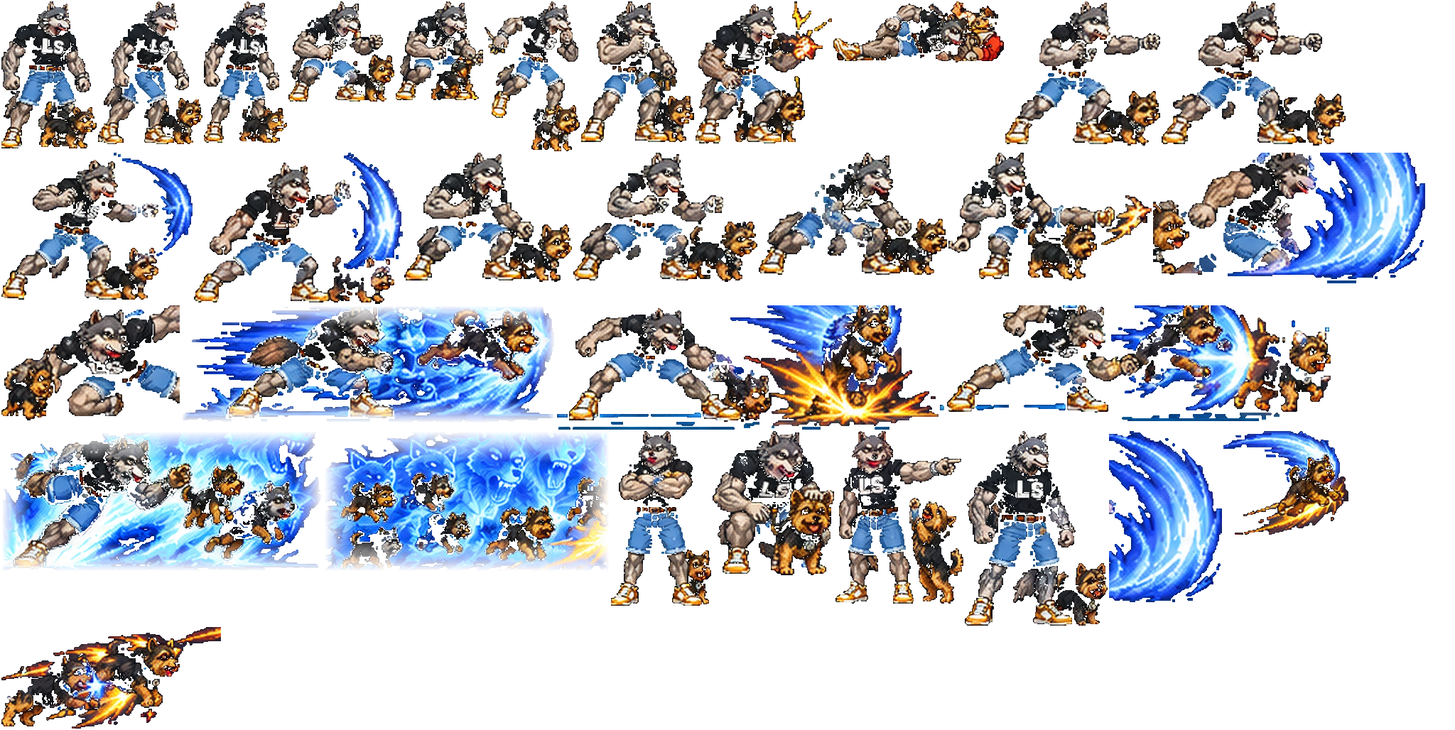
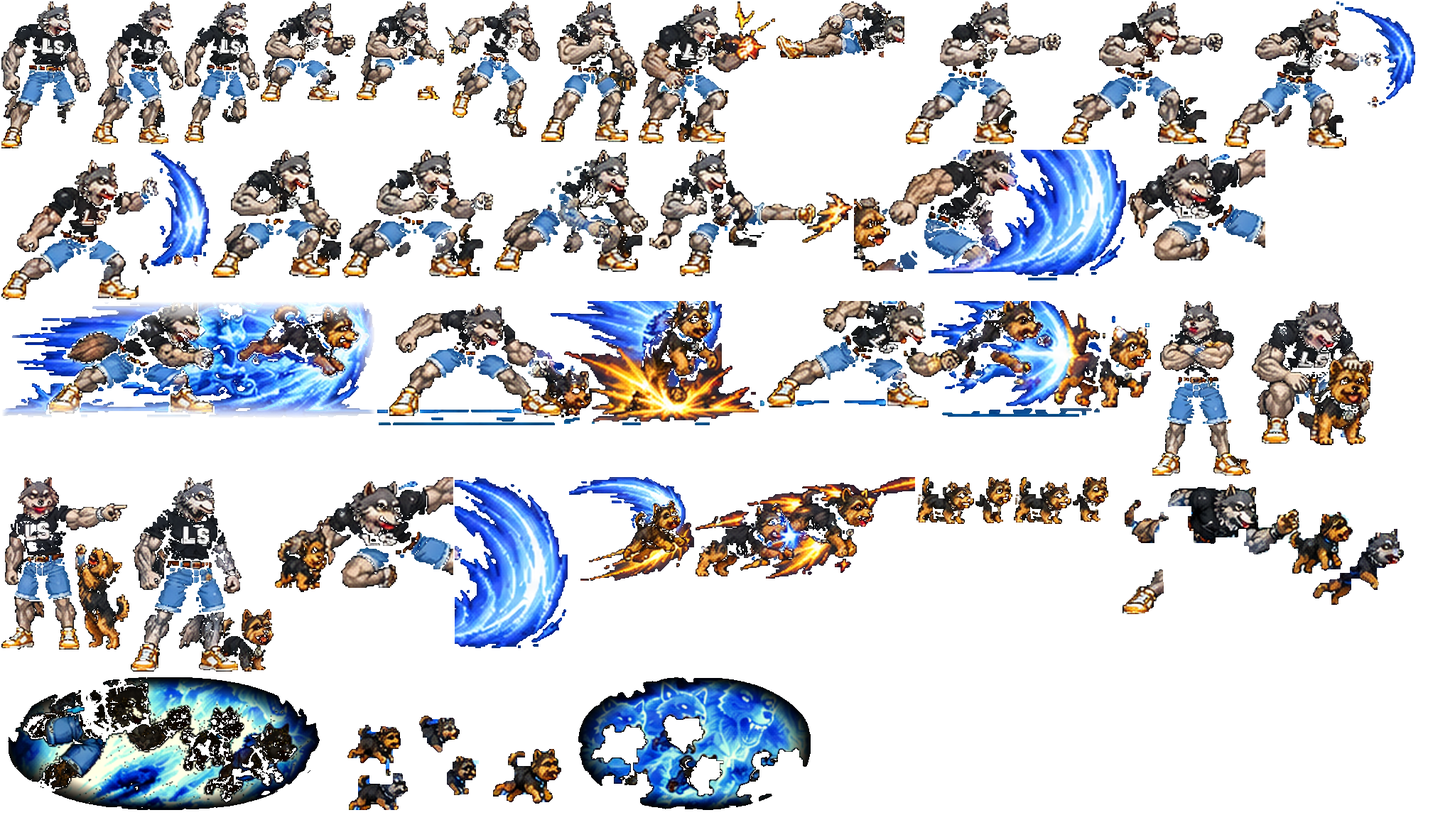
Barba vs Fumaça v0.4: Lobo com Yorkshire separado, animação com entre-quadros, supers sem caixa, multi-toque + botão SUPER, P2 camisa vermelha

diff --git a/js/fighters.js b/js/fighters.js
@@ -50,14 +50,14 @@ const CHARS = {
       jp: mv({ anim: 'jab', air: 1, frames: [{ f: 0, d: 3, anim: 'jump' }, { f: 0, d: 30, a: 1, v: { oy: -14 } }], hit: { x0: 20, x1: 90, y0: -170, y1: -110, dmg: 55, stun: 16, bstun: 10, push: 4, lvl: 'high' }, sfx: 'whoosh' }),
       jk: mv({ anim: 'lowk', air: 1, frames: [{ f: 0, d: 4, anim: 'jump' }, { f: 0, d: 30, a: 1, v: { oy: -40 } }], hit: { x0: 35, x1: 140, y0: -120, y1: -50, dmg: 65, stun: 17, bstun: 11, push: 5, lvl: 'high' }, sfx: 'whoosh' }),
       slash: mv({ anim: 'slash', special: 1, frames: [{ f: 0, d: 9, anim: 'fierce' }, { f: 0, d: 14, spawn: 'wave', sfx: 'whip' }, { f: 0, d: 10, anim: 'guard' }], hit: null }),
-      throw: mv({ anim: 'throw', special: 1, frames: [{ f: 0, d: 8, anim: 'strong' }, { f: 0, d: 20, spawn: 'dog', sfx: 'bark' }, { f: 0, d: 6, anim: 'guard' }], hit: null }),
+      throw: mv({ anim: 'throw', special: 1, frames: [{ f: 0, d: 8, anim: 'throwhold' }, { f: 0, d: 20, spawn: 'dog', sfx: 'bark' }, { f: 0, d: 6, anim: 'guard' }], hit: null }),
       rush: mv({ anim: 'rush', special: 1, frames: [{ f: 0, d: 8, anim: 'crouch' }, { f: 0, d: 16, a: 1, vx: 9, sfx: 'whoosh' }, { f: 0, d: 16, anim: 'guard', vx: 0 }],
         hit: { x0: 10, x1: 150, y0: -160, y1: -40, dmg: 90, stun: 22, bstun: 14, push: 10, heavy: 1, chip: 10, knock: 1 } }),
       sweep: mv({ anim: 'sweep', special: 1, crouch: 1, frames: [{ f: 0, d: 9, anim: 'crouch' }, { f: 0, d: 12, a: 1, sfx: 'bark' }, { f: 0, d: 16, anim: 'crouch' }],
         hit: { x0: 60, x1: 270, y0: -70, y1: 0, dmg: 70, stun: 20, bstun: 12, push: 8, lvl: 'low', chip: 8, knock: 1 } }),
       double: mv({ anim: 'double', special: 1, frames: [{ f: 0, d: 10, anim: 'strong' }, { f: 0, d: 12, a: 1, sfx: 'bark' }, { f: 0, d: 20, anim: 'guard' }],
         hit: { x0: 30, x1: 230, y0: -150, y1: -30, dmg: 100, stun: 22, bstun: 14, push: 10, heavy: 1, chip: 12, knock: 1 } }),
-      super1: mv({ anim: 'super1', special: 1, frames: [{ f: 0, d: 6, anim: 'guard' }, { f: 0, d: 10, a: 1, rh: 1, vx: 7 }, { f: 0, d: 10, a: 1, rh: 1, vx: 7 }, { f: 0, d: 10, a: 1, rh: 1, vx: 7, hb: { knock: 1, dmg: 90, heavy: 1, push: 10 } }, { f: 0, d: 18, anim: 'claw', vx: 0 }],
+      super1: mv({ anim: 'fierce', special: 1, frames: [{ f: 0, d: 6, anim: 'guard' }, { f: 0, d: 10, a: 1, rh: 1, vx: 7, anim: 'fierce' }, { f: 0, d: 10, a: 1, rh: 1, vx: 7, anim: 'claw' }, { f: 0, d: 10, a: 1, rh: 1, vx: 7, anim: 'strong', hb: { knock: 1, dmg: 90, heavy: 1, push: 10 } }, { f: 0, d: 18, anim: 'claw', vx: 0 }],
         hit: { x0: 0, x1: 220, y0: -190, y1: 0, dmg: 70, stun: 26, bstun: 12, push: 3, chip: 15, nomtr: 1 } }),
       super2: mv({ anim: 'claw', special: 1, frames: [{ f: 0, d: 14, anim: 'taunt', sfx: 'howl' }, { f: 0, d: 18, spawn: 'pack' }, { f: 0, d: 16, anim: 'guard' }], hit: null }),
     },
@@ -75,7 +75,8 @@ function loadImage(src) { return new Promise((res, rej) => { const i = new Image
 async function loadSprites() {
   for (const id of ['mukira', 'jogador', 'lobo']) {
     const [img, meta] = await Promise.all([loadImage(`assets/${id}/atlas.png`), fetch(`assets/${id}/atlas.json`).then(r => r.json())]);
-    Sprites[id] = { img, meta: meta.anims, tint: makeVariant(img, id, 'tint'), white: makeVariant(img, id, 'white') };
+    const tint = id === 'lobo' ? await loadImage('assets/lobo/atlas_p2.png') : makeVariant(img, id, 'tint');
+    Sprites[id] = { img, meta: meta.anims, tint, white: makeVariant(img, id, 'white') };
   }
   Sprites.ready = true;
 }
@@ -102,7 +103,8 @@ class Fighter {
   reset(side) {
     this.x = side === 0 ? 300 : 660; this.y = FLOOR; this.vx = 0; this.vy = 0; this.facing = side === 0 ? 1 : -1;
     this.hp = this.c.hp; this.state = 'idle'; this.t = 0; this.move = null; this.mt = 0; this.hitDone = false; this.stun = 0;
-    this.crouching = false; this.cool = 0; this.flash = 0; this.dirHist = []; this.prev = {}; this.inv = 0; this.pushV = 0; this.combo = 0; this.animT = 0;
+    this.crouching = false; this.cool = 0; this.flash = 0; this.dirHist = []; this.prev = {}; this.inv = 0; this.pushV = 0; this.combo = 0; this.animT = 0; this.pt = {};
+    this.pup = this.c.lobo ? { x: this.x + this.facing * 58, face: this.facing, t: 0, away: false, ret: false, moving: false, hide: false } : null; this.trail = []; this.lastV = null; this.trans = null;
   }
   get air() { return this.y < FLOOR - 0.01 || this.state === 'air' || this.state === 'fall'; }
   dirNum(inp) { // numpad notation relative to facing
@@ -120,7 +122,9 @@ class Fighter {
   }
   curFrame() { if (!this.move) return null; let t = this.mt; for (const fr of this.move.frames) { if (t < fr.d) return fr; t -= fr.d; } return this.move.frames[this.move.frames.length - 1]; }
   update(inp, opp, G) {
-    const press = {}; for (const k of ['punch', 'kick', 'special', 'up']) press[k] = inp[k] && !this.prev[k]; this.prev = { ...inp };
+    const press = {}; for (const k of ['punch', 'kick', 'special', 'up', 'super']) press[k] = inp[k] && !this.prev[k]; this.prev = { ...inp };
+    this.tick = (this.tick || 0) + 1; for (const k of ['punch', 'kick', 'special']) if (press[k]) this.pt[k] = this.tick;
+    if (this.c.lobo) this.updPup(G);
     const d = this.dirNum(inp); this.dirHist.push(d); if (this.dirHist.length > 20) this.dirHist.shift();
     this.t++; this.animT++; if (this.cool > 0) this.cool--; if (this.flash > 0) this.flash--; if (this.inv > 0) this.inv--;
     const st = this.state;
@@ -159,7 +163,7 @@ class Fighter {
       case 'air':
         if (!this.airAtk && (press.punch || press.kick)) { this.airAtk = true; const keepVx = this.vx; this.startMove(press.punch ? 'jp' : 'jk', G); this.vx = keepVx; }
         break;
-      case 'attack': if (this.c.lobo && this.mt < 4 && !this.move.air && (press.punch || press.kick || press.special) && this.loboInput(press, d, G, true)) break; this.tickMove(opp, G); break;
+      case 'attack': if (this.c.lobo && this.mt < 6 && !this.move.air && !/^super/.test(this.moveName) && (press.punch || press.kick || press.special || press.super) && this.loboInput(press, d, G, true)) break; this.tickMove(opp, G); break;
       case 'hit': case 'block': this.stun--; if (this.stun <= 0) this.setState(this.crouching && d <= 3 ? 'crouch' : 'idle'); break;
       case 'down': if (this.t > 38) { this.setState('getup'); } break;
       case 'getup': if (this.t > 28) { this.inv = 18; this.setState('idle'); } break;
@@ -172,11 +176,16 @@ class Fighter {
   dashF() { const h = this.dirHist.slice(-16); let i = h.length - 1; if (h[i] !== 6) return false; while (i >= 0 && h[i] === 6) i--; let j = i; while (j >= 0 && h[j] !== 6 && h[j] === 5) j--; return j >= 0 && j < i && h[j] === 6 && i - j <= 10; }
   // Lobo Solitário command list (keyboard + touch friendly). cancel=true: only P+K combos/supers in the first frames of a normal.
   loboInput(press, d, G, cancel) {
-    const P = press.punch, K = press.kick, S = press.special, held = this.prev;
+    const P = press.punch, K = press.kick, S = press.special;
+    // chord = both buttons went down within 5 frames (~80 ms) of each other, in any order, on any device
+    const rec = k => press[k] || this.tick - (this.pt[k] || -99) <= 5;
+    const chord = (a, b) => (press[a] || press[b]) && rec(a) && rec(b);
+    const used = (...ks) => { for (const k of ks) this.pt[k] = -99; };
     const q = this.motion([2, 3, 6]), qb = this.motion([2, 1, 4]);
-    if (this.meter >= 200 && ((S && held.kick) || (K && held.special) || (qb && ((P && held.kick) || (K && held.punch))))) return this.doSuper(2, G);
-    if (this.meter >= 100 && ((S && held.punch) || (P && held.special) || (q && ((P && held.kick) || (K && held.punch))))) return this.doSuper(1, G);
-    if ((P && held.kick) || (K && held.punch)) { this.startMove('double', G); return true; }
+    if (press.super && this.meter >= 100) return this.doSuper(this.meter >= 200 ? 2 : 1, G);
+    if (this.meter >= 200 && (chord('special', 'kick') || (qb && chord('punch', 'kick')))) { used('special', 'kick', 'punch'); return this.doSuper(2, G); }
+    if (this.meter >= 100 && (chord('special', 'punch') || (q && chord('punch', 'kick')))) { used('special', 'punch', 'kick'); return this.doSuper(1, G); }
+    if (chord('punch', 'kick')) { used('punch', 'kick'); if (this.moveName === 'double' && this.state === 'attack') return true; this.startMove('double', G); return true; }
     if (cancel) return false;
     const ownProj = G.projectiles.some(p => p.owner === this && p.kind !== 'pack');
     let mvn = null;
@@ -188,6 +197,23 @@ class Fighter {
     if (!mvn) return false;
     if ((mvn === 'slash' || mvn === 'throw') && (this.cool > 0 || ownProj)) return S; // eat the button, nothing happens
     this.startMove(mvn, G); this.meter = Math.min(200, this.meter + 4); return true;
+  }
+  // The Yorkshire is its own sprite: follows the wolf, leaves during Dog Throw and runs back afterwards.
+  updPup(G) {
+    const p = this.pup; p.t++;
+    const away = G.projectiles.some(q => q.owner === this && q.kind === 'dog');
+    if (away) { p.away = true; p.hide = true; return; }
+    if (p.away) { p.away = false; p.ret = true; p.x = this.lastDogX != null ? this.lastDogX : p.x; }
+    const mvn = this.state === 'attack' ? this.moveName : '';
+    const winBaked = this.state === 'win' && (this.winPose || 0) % 3 !== 0;
+    p.hide = ['throw', 'rush', 'sweep', 'double', 'slash', 'super2'].includes(mvn) || winBaked;
+    if (p.hide) { p.x = this.x + this.facing * 58; p.ret = false; p.moving = false; return; }
+    const lying = ['fall', 'down', 'ko'].includes(this.state);
+    const tx = this.x + this.facing * (mvn === 'super1' ? 120 : 58);
+    const dx = tx - p.x, ad = Math.abs(dx);
+    if (lying && !p.ret) { p.moving = false; p.face = Math.sign(this.x - p.x) || p.face; return; }
+    if (ad > 2) { const sp = p.ret ? 9 : mvn === 'super1' ? 10 : Math.max(1.5, Math.min(7, ad * 0.18)); p.x += Math.sign(dx) * Math.min(ad, sp); p.moving = ad > 4; p.face = p.moving ? Math.sign(dx) : this.facing; }
+    else { p.moving = false; p.ret = false; p.face = this.facing; }
   }
   doSuper(lvl, G) { this.meter -= lvl * 100; this.startMove(lvl === 1 ? 'super1' : 'super2', G); G.superFlash = { t: 0, f: this, name: lvl === 1 ? 'LOBO E SEU AMIGO' : 'ALPHA PACK' }; G.hitstop = 26; SFX.play('howl'); return true; }
   spawnProj(kind, G) {
@@ -320,22 +346,47 @@ function jogadorVisual(f) {
     default: { const b = Math.sin(t / 22); return { anim: 'stance', idx: 0, sy: 1 + 0.012 * b, oy: 0 }; }
   }
 }
-// Lobo Solitário: every frame is a crop of the user's character sheet (tools/build_lobo.py). The Yorkshire is part of most poses.
+// Lobo Solitário: every key pose is a crop of the user's character sheet (tools/build_lobo.py). In-between motion is
+// tweened here (ease in/out offsets, squash & stretch, rotation arcs, cross-fade ghosts, afterimages) - no new art.
+const easeO = x => 1 - (1 - x) * (1 - x), clamp01 = x => Math.max(0, Math.min(1, x));
 function loboVisual(f) {
-  const s = f.state, t = f.animT;
-  if (s === 'attack' && f.move) { const fr = f.curFrame(); return { anim: fr.anim || f.move.anim, idx: 0, ...(fr.v || {}) }; }
-  switch (s) {
-    case 'walk': { const n = cyc(t, 2, 10); return { anim: 'walk', idx: n, oy: n ? -2 : 0 }; }
-    case 'crouch': case 'jumpsq': case 'land': return { anim: 'crouch', idx: 0 };
-    case 'air': return { anim: 'jump', idx: 0, oy: -6, rot: f.vy > 4 ? 0.06 : 0 };
-    case 'hit': return { anim: 'hit', idx: 0, ox: f.t < 6 ? -6 : -2, rot: f.heavyHit ? -0.08 : 0 };
-    case 'block': return f.crouching ? { anim: 'cblock', idx: 0 } : { anim: 'guard', idx: 0, ox: -3 };
-    case 'fall': return f.t < 10 ? { anim: 'hit', idx: 0, rot: -0.12 - f.t * 0.03 } : { anim: 'ko', idx: 0, oy: -6 };
-    case 'down': case 'ko': return { anim: 'ko', idx: 0 };
-    case 'getup': return f.t < 16 ? { anim: 'crouch', idx: 0 } : { anim: 'guard', idx: 0 };
-    case 'win': return { anim: ['win1', 'win2', 'taunt'][(f.winPose || 0) % 3], idx: 0 };
-    default: { const b = Math.sin(t / 22); return { anim: 'idle', idx: 0, sy: 1 + 0.01 * b }; }
+  const s = f.state, t = f.animT, st = f.t;
+  if (s === 'attack' && f.move) {
+    const m = f.move, fr = f.curFrame(), i = m.frames.indexOf(fr), p = clamp01((f.mt - f.frameStart(fr)) / fr.d);
+    const ai = m.frames.findIndex(x => x.a || x.spawn), v = { anim: fr.anim || m.anim, idx: 0, ...(fr.v || {}) };
+    if (m.air) return v;
+    if (ai < 0 || i < ai) { v.ox = (v.ox || 0) - 7 * easeO(p); v.rot = -0.035 * p; v.sy = 1 - 0.03 * p; v.sx = 1 + 0.02 * p; }       // wind-up: pull back, coil
+    else if (i === ai || fr.a) { const k = clamp01(p * 4); v.ox = (v.ox || 0) - 7 + 13 * easeO(k); v.sx = 1 + 0.05 * (1 - k); v.sy = 1 - 0.03 * (1 - k); } // snap forward
+    else { v.ox = (v.ox || 0) + 6 * (1 - easeO(p)); v.sy = 1 - 0.015 * Math.sin(p * Math.PI); }                                  // recovery settles
+    return v;
   }
+  switch (s) {
+    case 'walk': { const ph = t / 9; const n = Math.floor(ph) % 2; const dir = Math.sign(f.vx * f.facing) || 1;
+      return { anim: 'walk', idx: n, oy: -Math.abs(Math.sin(ph * Math.PI)) * 4, rot: 0.03 * dir, sy: 1 + 0.015 * Math.cos(ph * Math.PI * 2) }; }
+    case 'crouch': return { anim: 'crouch', idx: 0, sy: 1 + 0.012 * Math.sin(t / 16) };
+    case 'jumpsq': return { anim: 'crouch', idx: 0, sy: 0.9, sx: 1.06 };
+    case 'land': { const k = clamp01(st / 6); return { anim: 'crouch', idx: 0, sy: 0.86 + 0.14 * easeO(k), sx: 1.08 - 0.08 * k }; }
+    case 'air': { const up = f.vy < 0, k = clamp01(Math.abs(f.vy) / 14);
+      return { anim: 'jump', idx: 0, oy: -6, rot: Math.max(-0.14, Math.min(0.14, f.vy * 0.012)), sy: up ? 1 + 0.07 * k : 1 - 0.03 * (1 - k), sx: up ? 1 - 0.05 * k : 1 }; }
+    case 'hit': { const k = easeO(clamp01(st / 9)); return { anim: 'hit', idx: 0, ox: -12 * (1 - k) - 2, rot: (f.heavyHit ? -0.14 : -0.06) * (1 - k), sx: 1 - 0.04 * (1 - k) }; }
+    case 'block': return f.crouching ? { anim: 'cblock', idx: 0, ox: st < 6 ? -4 : -1 } : { anim: 'guard', idx: 0, ox: st < 6 ? -6 : -3, sx: st < 4 ? 0.97 : 1 };
+    case 'fall': { if (st < 16) { const r = -0.12 - easeO(st / 16) * 1.25; return { anim: 'hit', idx: 0, rot: r, lie: true }; }
+      return { anim: 'ko', idx: 0, oy: -8, rot: -0.12 }; }
+    case 'down': { const b = st < 14 ? Math.abs(Math.sin(st / 14 * Math.PI)) * 10 * (1 - st / 14) : 0; return { anim: 'ko', idx: 0, oy: -b, sy: st < 4 ? 0.9 : 1, sx: st < 4 ? 1.06 : 1 }; }
+    case 'ko': return { anim: 'ko', idx: 0, sy: 1 + 0.01 * Math.sin(t / 30) };
+    case 'getup': { if (st < 10) { const k = st / 10; return { anim: 'crouch', idx: 0, sy: 0.55 + 0.4 * easeO(k), sx: 1.1 - 0.08 * k, rot: -0.25 * (1 - k), ox: -6 }; }
+      if (st < 20) return { anim: 'crouch', idx: 0, sy: 0.95 + 0.05 * ((st - 10) / 10), ox: -3 };
+      const k = clamp01((st - 20) / 8); return { anim: 'guard', idx: 0, sy: 0.94 + 0.06 * easeO(k), ox: -3 * (1 - k) }; }
+    case 'win': return { anim: ['win1', 'win2', 'taunt'][(f.winPose || 0) % 3], idx: 0, sy: 1 + 0.012 * Math.sin(t / 20) };
+    default: { const b = Math.sin(t / 18); return { anim: 'idle', idx: 0, sy: 1 + 0.016 * b, sx: 1 - 0.006 * b, oy: 0 }; }
+  }
+}
+function drawPup(ctx, f, G) {
+  const p = f.pup; if (!p || p.hide) return;
+  const anim = p.moving ? 'pupWalk' : (f.crouching || f.state === 'crouch') ? 'pupCrouch' : 'pupIdle';
+  const idx = p.moving ? cyc(p.t, 2, 5) : 0, oy = p.moving ? -Math.abs(Math.sin(p.t / 5 * Math.PI)) * 5 : 0;
+  ctx.save(); ctx.globalAlpha = 0.3; ctx.fillStyle = '#000'; ctx.beginPath(); ctx.ellipse(p.x, FLOOR + 2, 26, 5, 0, 0, Math.PI * 2); ctx.fill(); ctx.restore();
+  drawFrame(ctx, { id: 'lobo', x: p.x, y: FLOOR, facing: p.face, tinted: false }, anim, idx, { oy, sy: p.moving ? 1 : 1 + 0.02 * Math.sin(p.t / 14) });
 }
 function drawFighter(ctx, f, G) {
   if (!Sprites.ready) return;
@@ -344,8 +395,23 @@ function drawFighter(ctx, f, G) {
   // shadow
   ctx.save(); ctx.globalAlpha = 0.35; ctx.fillStyle = '#000'; const sw = 54 * (1 - (FLOOR - f.y) / 400);
   ctx.beginPath(); ctx.ellipse(f.x, FLOOR + 2, Math.max(16, sw), 7, 0, 0, Math.PI * 2); ctx.fill(); ctx.restore();
-  if (f.inv > 0 && (G.frame & 2)) return;
+  if (f.id === 'lobo') {
+    // cross-fade ghost of the previous key pose for a few frames = cheap in-between
+    if (f.lastV && f.lastV.anim !== v.anim) f.trans = { v: f.lastV, t: 0 };
+    f.lastV = v;
+    const mvn = f.state === 'attack' ? f.moveName : '';
+    const fast = (mvn === 'rush' || mvn === 'super1') && f.curFrame() && f.curFrame().a;
+    if (fast || (f.state === 'fall')) { if (G.frame % 2 === 0) f.trail.push({ x: f.x, y: f.y, v }); if (f.trail.length > 5) f.trail.shift(); } else if (f.trail.length) f.trail.shift();
+    if (mvn === 'super1' && f.mt >= 4) { const m = Sprites.lobo.meta.super1a[0]; ctx.save(); ctx.globalCompositeOperation = 'screen'; ctx.globalAlpha = Math.min(1, (f.mt - 4) / 6) * (0.8 + 0.2 * Math.sin(G.frame / 2));
+      drawFrame(ctx, { ...f, tinted: false }, 'super1a', 0, { ox: 30, oy: 0 }); ctx.restore(); }
+    ctx.save(); ctx.globalCompositeOperation = 'lighter';
+    f.trail.forEach((tr, i) => drawFrame(ctx, { ...f, x: tr.x, y: tr.y }, tr.v.anim, tr.v.idx, { ...tr.v, alpha: 0.10 + i * 0.05 }));
+    ctx.restore();
+    if (f.trans && f.trans.t < 4 && !(f.inv > 0 && (G.frame & 2))) { drawFrame(ctx, f, f.trans.v.anim, f.trans.v.idx, { ...f.trans.v, alpha: 0.42 * (1 - f.trans.t / 4) }); f.trans.t++; }
+  }
+  if (f.inv > 0 && (G.frame & 2)) { if (f.id === 'lobo') drawPup(ctx, f, G); return; }
   drawFrame(ctx, f, v.anim, v.idx, v);
+  if (f.id === 'lobo') drawPup(ctx, f, G);
   if (f.flash > 0) drawFrame(ctx, f, v.anim, v.idx, { ...v, white: true, alpha: Math.min(0.5, f.flash / 8) });
   // move effects (honest approximations for frames the art does not have)
   if (f.state === 'attack' && f.move && f.move.fx) { const fr = f.curFrame(); if (fr.a) drawSwoosh(ctx, f, f.move.fx, f.move.hit); }
@@ -417,6 +483,6 @@ class CPU {
     // jump-in attack
     if (me.state === 'air' && !me.airAtk && this.jumpKick && Math.abs(opp.x - me.x) < 150 && me.vy > -4) { o = { kick: true }; this.jumpKick = false; }
     // edge-trigger safety: buttons pressed only for one frame from think()
-    return { up: !!o.up, down: !!o.down, left: !!o.left, right: !!o.right, punch: !!o.punch, kick: !!o.kick, special: !!o.special };
+    return { up: !!o.up, down: !!o.down, left: !!o.left, right: !!o.right, punch: !!o.punch, kick: !!o.kick, special: !!o.special, super: false };
   }
 }

diff --git a/js/input.js b/js/input.js
@@ -2,14 +2,15 @@
 // Keyboard + touch input. Produces per-player held states; game computes edges.
 const Input = (() => {
   const KEYMAP = {
-    p1: { up: ['KeyW'], down: ['KeyS'], left: ['KeyA'], right: ['KeyD'], punch: ['KeyF'], kick: ['KeyG'], special: ['KeyH'] },
-    p2: { up: ['ArrowUp'], down: ['ArrowDown'], left: ['ArrowLeft'], right: ['ArrowRight'], punch: ['KeyJ'], kick: ['KeyK'], special: ['KeyL'] },
+    p1: { up: ['KeyW'], down: ['KeyS'], left: ['KeyA'], right: ['KeyD'], punch: ['KeyF'], kick: ['KeyG'], special: ['KeyH'], super: ['KeyR'] },
+    p2: { up: ['ArrowUp'], down: ['ArrowDown'], left: ['ArrowLeft'], right: ['ArrowRight'], punch: ['KeyJ'], kick: ['KeyK'], special: ['KeyL'], super: ['KeyI'] },
   };
   const held = new Set();
   const menuQ = [];
   const MENU = { ArrowUp: 'up', KeyW: 'up', ArrowDown: 'down', KeyS: 'down', ArrowLeft: 'left', KeyA: 'left', ArrowRight: 'right', KeyD: 'right',
     Enter: 'ok', Space: 'ok', KeyF: 'ok', KeyJ: 'ok', Escape: 'back', Backspace: 'back', KeyP: 'pause' };
-  const touch = { up: false, down: false, left: false, right: false, punch: false, kick: false, special: false };
+  const touch = { up: false, down: false, left: false, right: false, punch: false, kick: false, special: false, super: false };
+  const refs = {}; // key -> set of pointerIds holding it (multi-touch safe)
   let touchUsed = false;
   window.addEventListener('keydown', e => {
     if (e.code === 'F5' || e.code === 'F12' || e.metaKey || e.ctrlKey) return;
@@ -18,7 +19,7 @@ const Input = (() => {
     held.add(e.code); e.preventDefault();
   });
   window.addEventListener('keyup', e => { held.delete(e.code); });
-  window.addEventListener('blur', () => { held.clear(); for (const k in touch) touch[k] = false; });
+  window.addEventListener('blur', () => { held.clear(); for (const k in touch) touch[k] = false; for (const k in refs) refs[k].clear(); });
 
   function setupTouch() {
     const stick = document.getElementById('stick'), knob = document.getElementById('knob');
@@ -36,13 +37,24 @@ const Input = (() => {
     stick.addEventListener('pointermove', e => { if (e.pointerId === sid) upd(e); });
     stick.addEventListener('pointerup', e => { if (e.pointerId === sid) end(); });
     stick.addEventListener('pointercancel', end);
-    document.querySelectorAll('.tb').forEach(b => {
-      const k = b.dataset.k;
-      const on = e => { touchUsed = true; touch[k] = true; b.classList.add('on'); b.setPointerCapture(e.pointerId); e.preventDefault(); };
-      const off = () => { touch[k] = false; b.classList.remove('on'); };
-      b.addEventListener('pointerdown', on); b.addEventListener('pointerup', off); b.addEventListener('pointercancel', off);
+    // Buttons: every finger is tracked on its own (pointerId), so Especial+Soco / Soco+Chute pressed with two thumbs
+    // both register. A finger landing in the gap between two buttons presses both (one-thumb chord).
+    const btns = [...document.querySelectorAll('.tb')];
+    const set = (k, id, on) => { const s = refs[k] || (refs[k] = new Set()); on ? s.add(id) : s.delete(id); touch[k] = s.size > 0;
+      const el = btns.find(b => b.dataset.k === k); if (el) el.classList.toggle('on', touch[k]); };
+    const owned = {}; // pointerId -> keys
+    const down = e => {
+      touchUsed = true; const keys = new Set();
+      for (const b of btns) { if (b.classList.contains('hidden')) continue; const r = b.getBoundingClientRect(), pad = 8;
+        if (e.clientX >= r.left - pad && e.clientX <= r.right + pad && e.clientY >= r.top - pad && e.clientY <= r.bottom + pad) keys.add(b.dataset.k); }
+      keys.add(e.currentTarget.dataset.k); owned[e.pointerId] = keys; for (const k of keys) set(k, e.pointerId, true);
+      try { e.currentTarget.setPointerCapture(e.pointerId); } catch (_) {} e.preventDefault();
+    };
+    const up = e => { const keys = owned[e.pointerId]; if (!keys) return; for (const k of keys) set(k, e.pointerId, false); delete owned[e.pointerId]; };
+    for (const b of btns) {
+      b.addEventListener('pointerdown', down); b.addEventListener('pointerup', up); b.addEventListener('pointercancel', up); b.addEventListener('lostpointercapture', up);
       b.addEventListener('contextmenu', e => e.preventDefault());
-    });
+    }
   }
   function readKeys(map) { const s = {}; for (const k in map) s[k] = map[k].some(c => held.has(c)); return s; }
   return {

diff --git a/js/game.js b/js/game.js
@@ -252,12 +252,19 @@ function updateLoboProj(p, def) {
   }
   if (P.life && p.t > P.life) p.dead = true;
   if (p.x < -200 || p.x > VW + 200) p.dead = true;
+  if (p.dead && p.kind === 'dog') p.owner.lastDogX = Math.max(20, Math.min(VW - 20, p.x));
 }
 function drawLoboProj(p) {
-  const S = Sprites.lobo; const anim = p.kind === 'wave' ? 'wave' : p.kind === 'pack' ? 'super2' : p.stick ? 'dogatk' : 'dogfly';
+  const S = Sprites.lobo;
+  if (p.kind === 'pack') { // Alpha Pack: spectral wolves as additive light (no panel box) + the real Yorkshires on top
+    const m = S.meta.super2a[0], o = { id: 'lobo', x: p.x, y: p.y + m.h / 2, facing: p.dir, tinted: false };
+    ctx.save(); ctx.globalCompositeOperation = 'screen'; ctx.globalAlpha = Math.min(1, p.t / 8) * (0.85 + 0.15 * Math.sin(p.t / 2)); drawFrame(ctx, o, 'super2a', 0, {}); ctx.restore();
+    drawFrame(ctx, o, 'super2n', 0, { oy: Math.sin(p.t / 3) * 3 }); return;
+  }
+  const anim = p.kind === 'wave' ? 'wave' : p.stick ? 'dogatk' : 'dogfly';
   const m = S.meta[anim][0]; const shake = p.stick ? Math.sin(p.t * 1.3) * 3 : 0;
-  ctx.save(); if (p.kind === 'pack') ctx.globalAlpha = 0.92;
-  drawFrame(ctx, { id: 'lobo', x: p.x + shake, y: p.y + m.h / 2, facing: p.dir, tinted: p.owner.tinted }, anim, 0, {});
+  ctx.save(); if (p.kind === 'wave') ctx.globalCompositeOperation = 'lighter';
+  drawFrame(ctx, { id: 'lobo', x: p.x + shake, y: p.y + m.h / 2, facing: p.dir, tinted: false }, anim, 0, {});
   ctx.restore();
 }
 G.smogOn = me => G.smog.some(s => s.victim === me && s.t < 75);
@@ -417,7 +424,7 @@ function drawSelect() {
   const info = ['Especial: chicote de barba de longo alcance (Especial ou ↘ + Soco)', 'Especial: anel de fumaça que atravessa a tela e cega (Especial ou ↘ + Soco)',
     'Especial: garra azul · Esp+← cachorro · Esp+→ investida · Esp+↓ rasteira'][G.selCur[G.selStep]];
   txt(info, VW / 2, 494, 15, '#fff', 'center', '600', 3);
-  if (CHAR_IDS[G.selCur[G.selStep]] === 'lobo') txt('Soco+Chute: ataque duplo · Supers (barra ALPHA): Especial+Soco · Especial+Chute', VW / 2, 516, 14, '#bfe8ff', 'center', '600', 3);
+  if (CHAR_IDS[G.selCur[G.selStep]] === 'lobo') txt('Soco+Chute: ataque duplo · Supers (barra ALPHA): Especial+Soco · Especial+Chute · botão SUPER', VW / 2, 516, 14, '#bfe8ff', 'center', '600', 3);
   button('back', '‹', 20, VH - 64, 50, 48, false);
 }
 function drawResult() {
@@ -478,6 +485,7 @@ Input.setupTouch();
 let last = performance.now(), acc = 0;
 function step() {
   G.frame++;
+  { const f0 = G.fighters && G.fighters[0], on = G.scene === 'fight' && f0 && f0.id === 'lobo' && f0.meter >= 100; if (on !== G._superBtn) { G._superBtn = on; document.getElementById('bSuper').classList.toggle('hidden', !on); } }
   handleMenuKeys();
   if (G.scene === 'fight' && !G.paused) updateFight();
 }

diff --git a/sw.js b/sw.js
@@ -1,6 +1,6 @@
-const CACHE = 'bvf-v0.3-1';
+const CACHE = 'bvf-v0.4-1';
 const FILES = ['./', 'index.html', 'style.css', 'manifest.webmanifest', 'js/audio.js', 'js/input.js', 'js/stage.js', 'js/fighters.js', 'js/game.js',
-  'assets/mukira/atlas.png', 'assets/mukira/atlas.json', 'assets/jogador/atlas.png', 'assets/jogador/atlas.json', 'assets/lobo/atlas.png', 'assets/lobo/atlas.json', 'icons/icon-192.png', 'icons/icon-512.png', 'icons/icon-180.png'];
+  'assets/mukira/atlas.png', 'assets/mukira/atlas.json', 'assets/jogador/atlas.png', 'assets/jogador/atlas.json', 'assets/lobo/atlas.png', 'assets/lobo/atlas.json', 'assets/lobo/atlas_p2.png', 'icons/icon-192.png', 'icons/icon-512.png', 'icons/icon-180.png'];
 self.addEventListener('install', e => { e.waitUntil(caches.open(CACHE).then(c => c.addAll(FILES)).then(() => self.skipWaiting())); });
 self.addEventListener('activate', e => { e.waitUntil(caches.keys().then(ks => Promise.all(ks.filter(k => k !== CACHE).map(k => caches.delete(k)))).then(() => self.clients.claim())); });
 self.addEventListener('fetch', e => {

diff --git a/style.css b/style.css
@@ -11,6 +11,8 @@ html,body{margin:0;height:100%;background:#000;overflow:hidden;touch-action:none
 #bPunch{left:0;bottom:6px;background:rgba(220,60,40,.55)}
 #bKick{left:88px;bottom:0;background:rgba(40,120,230,.55)}
 #bSpecial{left:44px;top:0;width:90px;height:72px;border-radius:36px;background:rgba(240,180,30,.6)}
+#bSuper{left:-70px;top:-6px;width:72px;height:56px;border-radius:28px;font-size:13px;background:rgba(40,160,255,.75);box-shadow:0 0 14px rgba(90,200,255,.9);animation:sp .7s ease-in-out infinite alternate}
+@keyframes sp{to{box-shadow:0 0 4px rgba(90,200,255,.4)}}
 #topbar{position:fixed;bottom:8px;left:50%;transform:translateX(-50%);display:flex;gap:10px;flex-direction:row-reverse}
 #topbar.corner{left:auto;transform:none;right:calc(env(safe-area-inset-right) + 10px)}
 #topbar button{width:40px;height:34px;border-radius:8px;border:1px solid rgba(255,255,255,.4);background:rgba(0,0,0,.45);color:#fff;font-size:16px;-webkit-tap-highlight-color:transparent}

diff --git a/index.html b/index.html
@@ -23,6 +23,7 @@
       <button class="tb" id="bPunch" data-k="punch">Soco</button>
       <button class="tb" id="bKick" data-k="kick">Chute</button>
       <button class="tb" id="bSpecial" data-k="special">Especial</button>
+      <button class="tb hidden" id="bSuper" data-k="super">SUPER</button>
     </div>
   </div>
   <div id="topbar">

diff --git a/README.md b/README.md
@@ -38,3 +38,10 @@ Sprites recortados da ficha do usuário (`assets/lobo/ficha.png`, `tools/build_l
 | Double Attack | Soco+Chute juntos | |
 | Super Lv1 Lobo e seu Amigo (1 barra) | Especial+Soco | ↓↘→+Soco+Chute |
 | Super Lv2 Alpha Pack (2 barras) | Especial+Chute | ↓↙←+Soco+Chute |
+
+## v0.4 – correções do Lobo
+- Yorkshire separado das poses (tools/dogseg.py): agora é um sprite próprio que segue o lobo, sai no Dog Throw e volta correndo.
+- Animação: entre-quadros por tween (wind-up/recuperação, respiração, squash & stretch no pulo/pouso, arco de queda, quique, levantar), fantasmas de transição e rastro na investida.
+- Supers refeitos: brilho espectral em camada aditiva (sem caixa retangular), sem o fogo laranja/inimigo do painel.
+- Toque: multi-toque por dedo, buffer de ~80 ms para Especial+Soco / Especial+Chute / Soco+Chute, dedo no vão entre dois botões aperta os dois, botão SUPER quando a barra ALPHA enche (tecla R no teclado).
+- Espelho: P2 usa camisa vermelha (paleta P2 da ficha).
